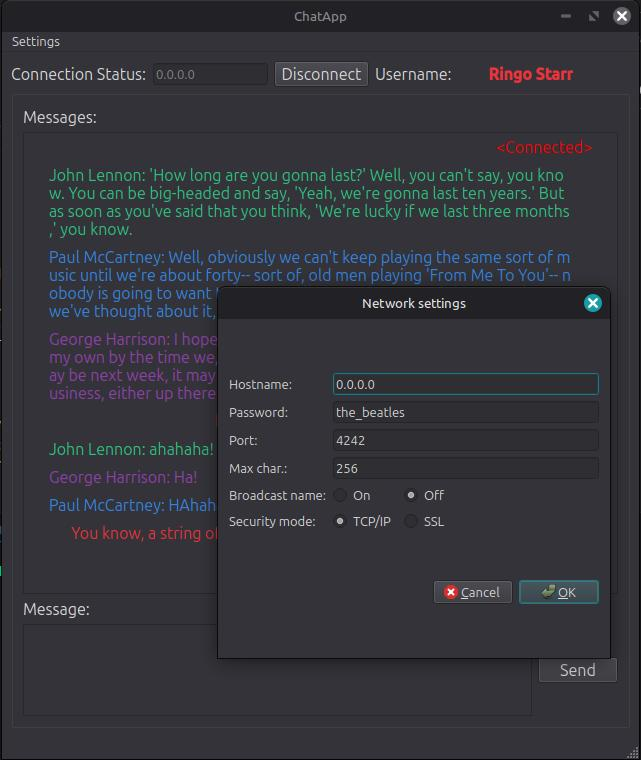
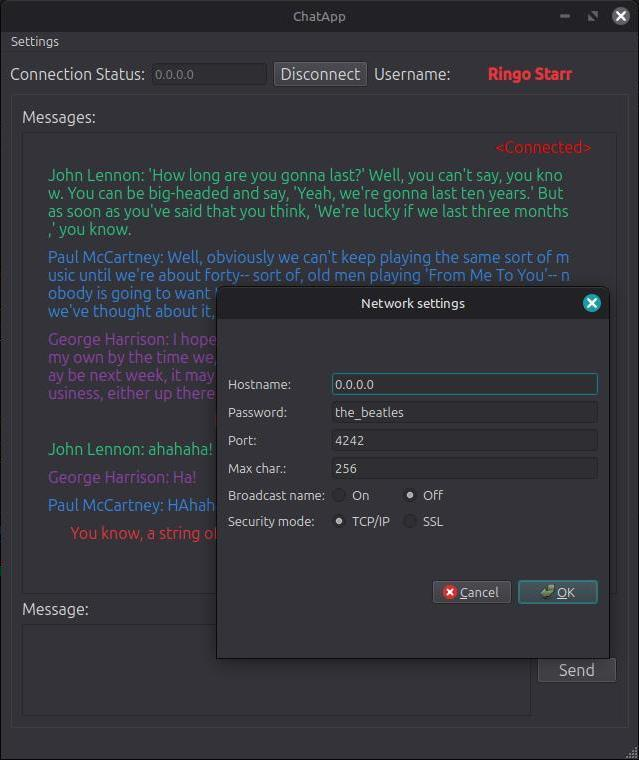
added demo pics

diff --git a/README.md b/README.md
@@ -1,18 +1,20 @@
 # Async / TLS Chat Application Using Qt6 & Boost::asio 
 
-TCP (Transport Control Protocol) or TLS (Transport Layer Security, formally known as Secure Socket Layer)
+TCP/TLS<sup>1</sup> Chat Messenger Client using Qt6, and async TCP/TLS server using boost.asio.
 
+
+<sup>1</sup>: Transmission Control Protocol/Transport Layer Security (formally known as Secure Socket Layer)
 
 ## Qt6 TCP/TLS Client 
 
 <p align="center">
-<img src="demo/chat_app.jpg" alt="kick" width="200">
-<img src="demo/network_settings.jpg" alt="kick" width="200">
+<img src="demo/chat_app.jpg" alt="kick" width="330">
+<img src="demo/network_settings.jpg" alt="kick" width="330">
 </p>
 
 App features:
 
-* Choose between "more modern" speech bubble or "old school" IRC-style text
+* Choose between "more modern" speech bubble or "old school" irc-chat-style text
 * Connection modes (TCP vs TLS) & network settings set at runtime
 * Network Settings saved/loaded from config file (`chat_app_client_config.json`) file 
 * Compatible with the [Raspberry Pi Pico 2W bare metal TCP chat server](https://github.com/so-groenen/pi_pico2_w_chat_server)
@@ -21,13 +23,18 @@ App features:
 
 Behind the curtains:
 * Uses Model-View-Presenter (MVP) architecture with C++20/23 features.
-* Messages get parsed to json containing relevant fields (username, user session id, message, font color) and broadcaster by server.
-* TCP Client with optional TLS layer on top. 
+* Text messages get formatted to json, containing relevant fields: username, user session id, message and font color. The server's role is to broadcast the messages to all connected users.
+* TCP client with optional TLS layer on top. 
 
 
 
 ## Asynchronous Boost.asio TCP/TLS server
 
-* Asyncronous server handlinng multiple clients concurrently 
+<p align="center">
+<img src="demo/tls_example.jpg" alt="kick" width="400">
+</p>
+
+* Asyncronous server handling multiple clients concurrently 
 * Uses c++20 coroutines (asio's *awaitable* / *co_await* syntax, reminiscent of Python's *async*/*await* syntax). 
+* Automatically loads all client/server certificates in folder given in config file.
 * Server's network settings (TCP vs SSL, *path/to/certificates* etc) configured using json file (`chat_app_server_config.json`).
